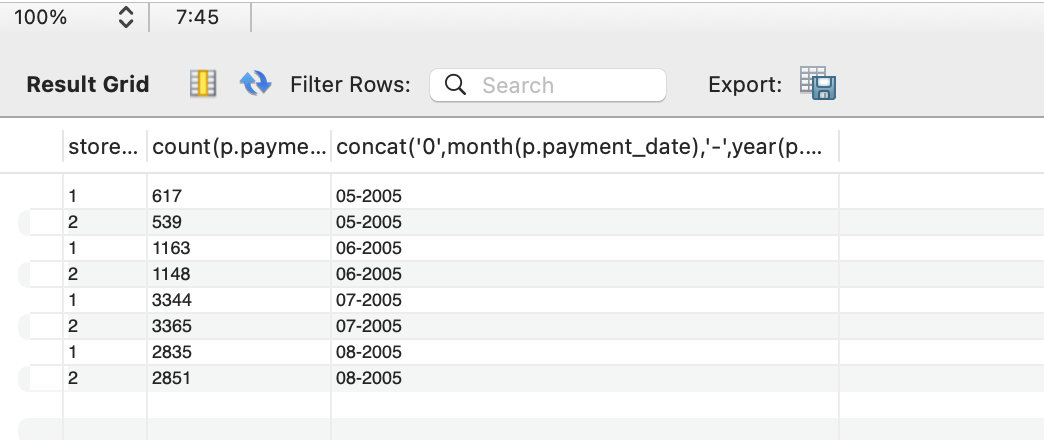
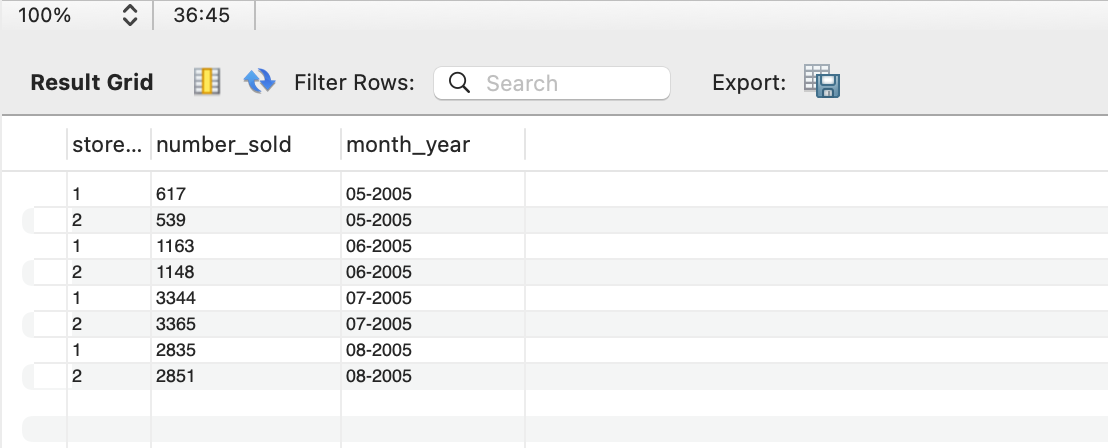
update first part

diff --git a/README.md b/README.md
@@ -65,13 +65,33 @@ where
 
 8. Quelles sont les ventes de chaque magasin pour chaque mois de 2005 (CONCAT)
 ```sql
-select s.store_id, count(p.payment_id), concat('0',month(p.payment_date),'-',year(p.payment_date))
+select s.store_id, count(p.payment_id) as number_sold, concat('0',month(p.payment_date),'-',year(p.payment_date)) as month_year
 from sakila.payment p, sakila.staff st, sakila.store s
 where 
-	p.staff_id = st.staff_id and st.store_id = s.store_id
+	p.staff_id = st.staff_id 
+    and st.store_id = s.store_id
 	and year(p.payment_date) = 2005
 group by concat('0',month(p.payment_date),'-',year(p.payment_date)), s.store_id
 order by concat('0',month(p.payment_date),'-',year(p.payment_date)) asc;
 ```
 ![](res/Q8.png)
 
+9. Trouvez le titre du film, le nom du client, le numéro de téléphone du client et l'adresse du client pour tous les DVD en circulation (qui n'ont pas prévu d'être rendus)
+```sql
+select distinct f.title, concat(c.first_name, ' ', c.last_name) as name, a.phone, concat(a.address, ' ', a.district, ' ', a.postal_code, ' ', ci.city, ' ', co.country) as address
+from sakila.rental r
+	join sakila.customer c 
+		on r.customer_id = c.customer_id
+	join sakila.address a
+		on a.address_id = c.address_id
+	join sakila.inventory i
+		on i.inventory_id = r.inventory_id
+	join sakila.film f
+		on f.film_id = i.film_id
+	join sakila.city ci 
+		on ci.city_id = a.city_id
+	join sakila.country co
+		on co.country_id = ci.country_id
+where r.return_date is null;
+```
+![](res/Q9.png)
